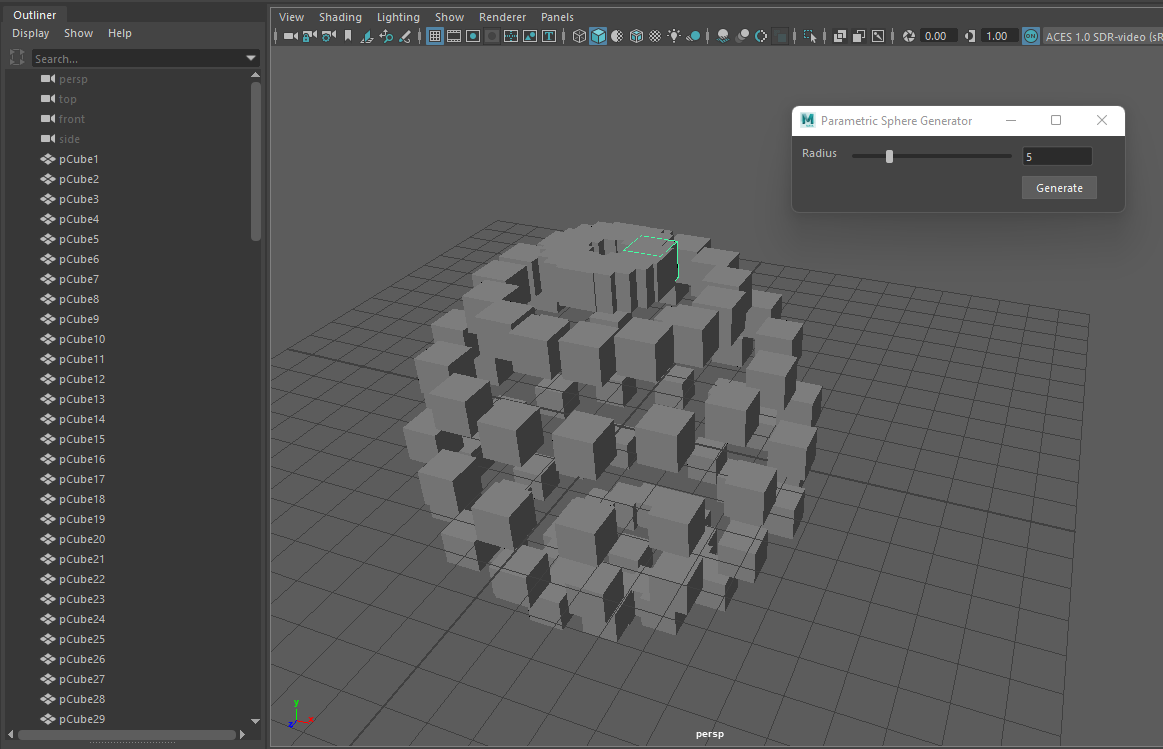
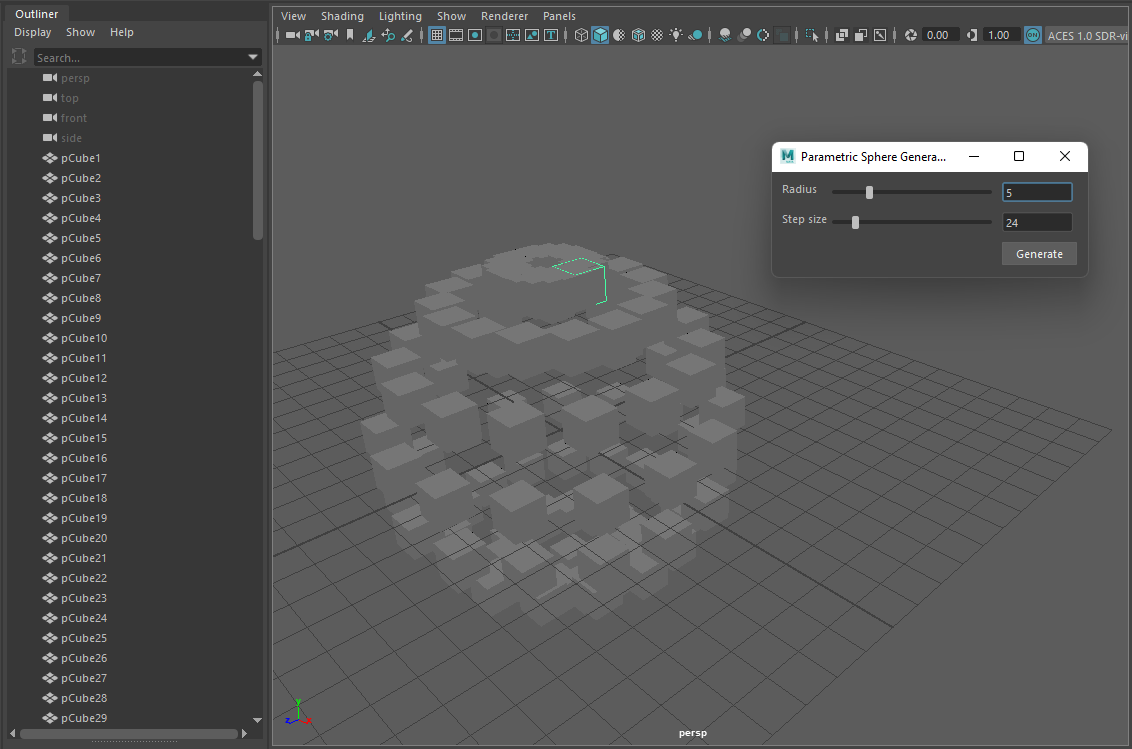
Updates README.md

diff --git a/assignment-5/README.md b/assignment-5/README.md
@@ -1,4 +1,4 @@
-# Assignment 2
+# Assignment 5
 
 ## Description
 
@@ -8,7 +8,9 @@
 ## Buttons
 
 - `Radius slider`: Sets the radius of the sphere
-- `Generate`: Generates a sphere of cubes with the given radius.
+- `Step size slider`: Size of each step around sphere in degrees. A higher value yields
+  a lower resolution.
+- `Generate`: Generates a sphere of cubes with the given radius and step size.
 
 ## Example
 
